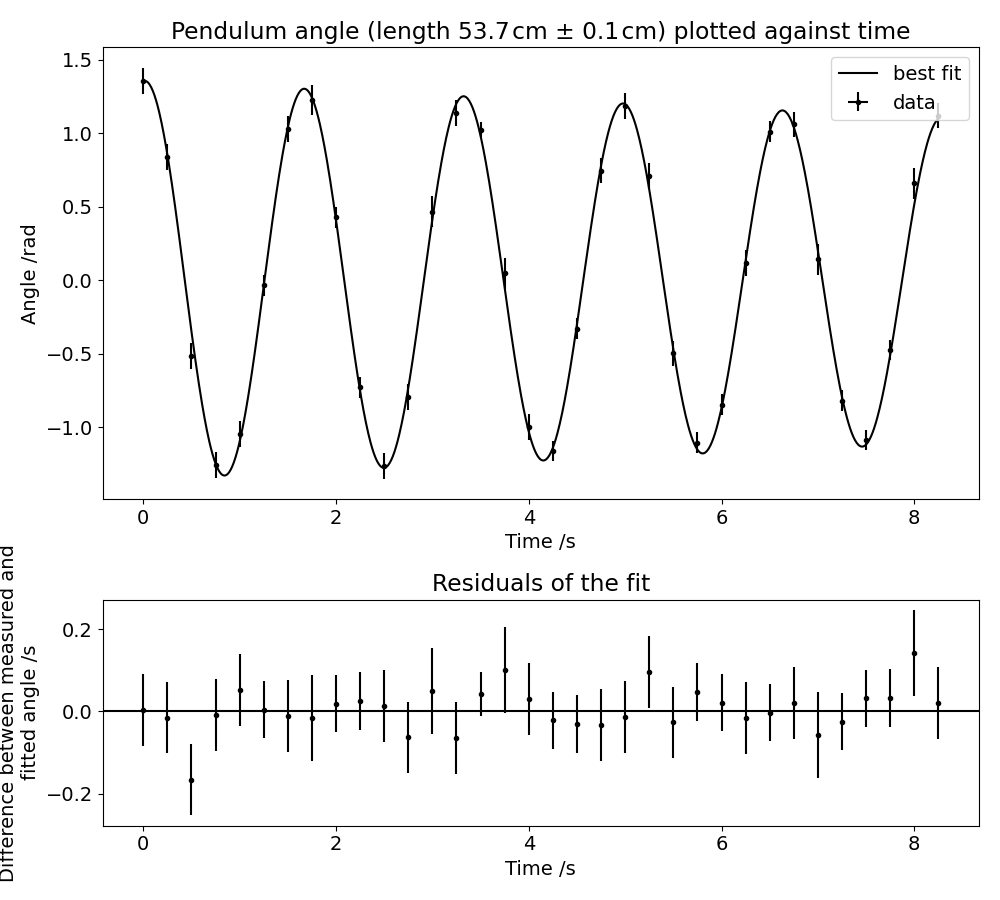
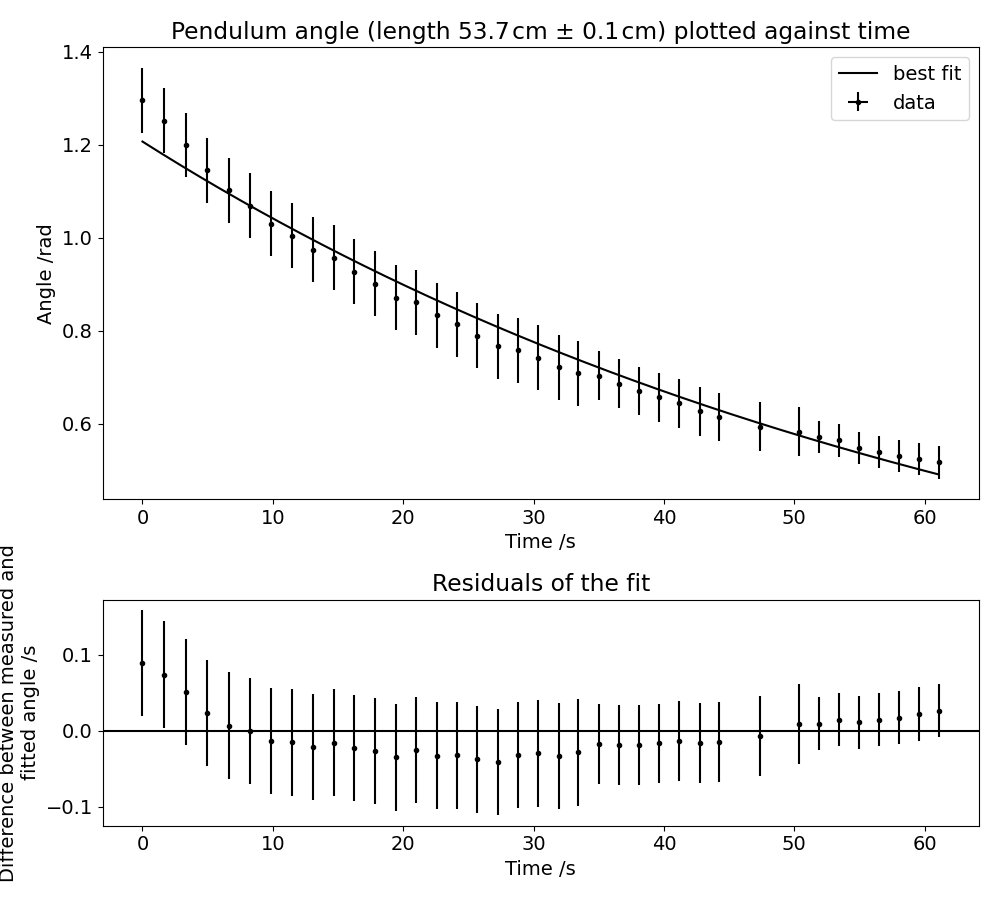
max amplitude vs time graph

diff --git a/plotting/fit_exponential.py b/plotting/fit_exponential.py
@@ -61,7 +61,7 @@ highlighted by comments that look like:
 """
 
 def main():
-    my_func = damped_sinusoid
+    my_func = exponential
     # Change to whichever of the 5 functions you want to fit
 
     plt.rcParams.update({'font.size': 14})
@@ -82,7 +82,7 @@ def main():
 
 ########### HERE!!! ##############
 
-    init_guess = (1.362249378, 100, 1.67, 0.0)
+    init_guess = (1.295034305, 50)
     # Your initial guess of (a, tau, T, phi)
     # For sinusoidal functions, guessing T correctly is critically important
     # Note: your initial guess must have the same number of parameters as
@@ -95,13 +95,13 @@ def main():
 
     a=popt[0]
     tau=popt[1]
-    T=popt[2]
-    phi=popt[3]
+    # T=popt[2]
+    # phi=popt[3]
     # best fit values are named nicely
     u_a=pcov[0,0]**(0.5)
     u_tau=pcov[1,1]**(0.5)
-    u_T=pcov[2,2]**(0.5)
-    u_phi=pcov[3,3]**(0.5)
+    # u_T=pcov[2,2]**(0.5)
+    # u_phi=pcov[3,3]**(0.5)
     # uncertainties of fit are named nicely
 
     start = min(xdata)
@@ -142,9 +142,9 @@ def main():
 
     print("A:", a, "+/-", u_a)
     print("tau:", tau, "+/-", u_tau)
-    print("T:", T, "+/-", u_T)
-    print("phi:", phi, "+/-", u_phi)
-    print("Q factor:", np.pi*tau/T)
+    # print("T:", T, "+/-", u_T)
+    # print("phi:", phi, "+/-", u_phi)
+    # print("Q factor:", np.pi*tau/T)
     # prints the various values with uncertainties
     # This is printed to your screen, not on the graph.
     # If you want to print it on the graph, use plt.text(), details at

diff --git a/report/lab.tex b/report/lab.tex
@@ -12,13 +12,30 @@
 
 \maketitle
 
-\newpage
-
 \pagenumbering{arabic}
 
-\section*{Introduction}
+\section*{Introduction and Objectives}
+The first part of this lab report focuses on the relationship the period and release angle of a simple pendulum. After results were collected and analyzed, an improved version of the pendulum was created to collect angular data in order to determine the Q factor.
+
+
+\begin{itemize}
+    \item period is dependent on angle
+    \item If you find that the period does depend on the angle, and you find that your Q factor is not huge (in the 1000s), then you will need to be careful about how you measure the period. (i.e. conclusions of Q factor based on angle?)
+    \item compare the ``3'' ways of calculating the Q factor
+\end{itemize}
+
 \section*{Background}
+
 \section*{Procedure}
-\section{Conclusion}
+for version 2 of the pendulum, I got rid of a swinging motion by attaching 2 strings
+
+asymmetry can be tested by taking residuals?
+
+talk about uncertainties (make a section for it?)
+
+\begin{equation}
+    \theta(t) = 0.86 e^{-\tau/30} \cos\left(2 \pi \frac{t}{1.43} - 0.08\right)
+\end{equation}
+\section*{Conclusion}
 
 \end{document}
